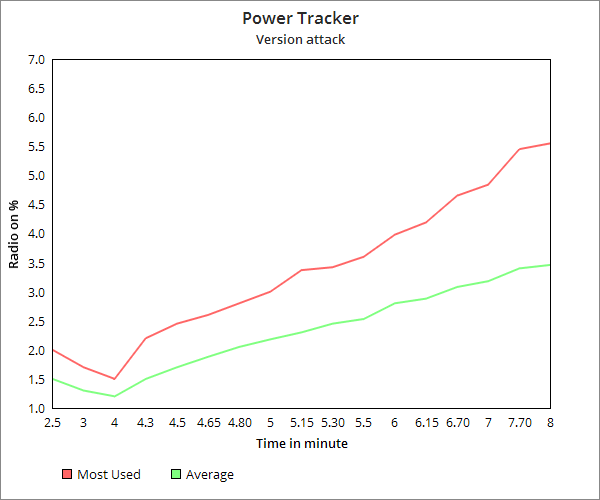
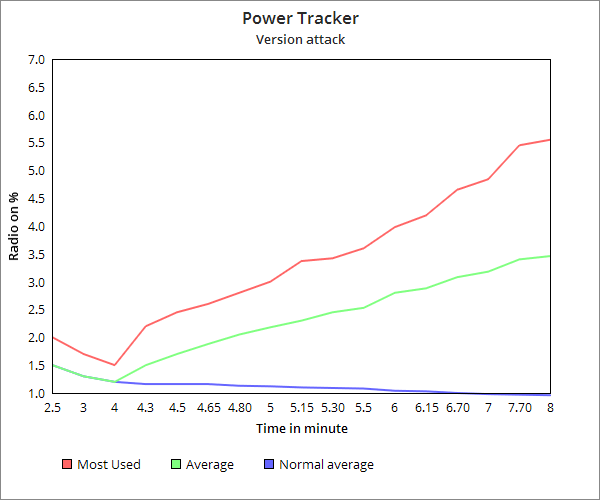
report + implem

diff --git a/LINGI2146_Report_P1.tex b/LINGI2146_Report_P1.tex
@@ -3,6 +3,38 @@
 \usepackage{fullpage}
 \usepackage{graphicx}
 \usepackage{booktabs}
+\usepackage{color}
+\usepackage{fancyhdr}
+\usepackage{color}
+\usepackage{colortbl}
+\usepackage{amsmath,amssymb}
+\usepackage{multido}
+\usepackage{caption}
+\usepackage{listings}
+
+\lstnewenvironment{myc}
+{\lstset{language=c}
+\lstset{basicstyle=\footnotesize\ttfamily}
+\lstset{keywordstyle=\color[rgb]{0,0,1}\bfseries}
+\lstset{identifierstyle=\color{black}}
+\lstset{commentstyle=\color[rgb]{0,0.4,0}}
+\lstset{stringstyle=\color[rgb]{0.7,0,0}}
+\lstset{showstringspaces=false}
+\lstset{showtabs=false}
+\lstset{tabsize=3}
+\lstset{extendedchars=true}
+\lstset{breaklines=true}
+\lstset{postbreak={}}
+\lstset{breakautoindent=true}
+\lstset{breakindent=0pt}
+\lstset{xleftmargin=0.1cm}
+\lstset{xrightmargin=0cm}
+\lstset{frame=tb,rulecolor=\color[gray]{.4}}
+\lstset{captionpos=b}
+\lstset{aboveskip=0.5cm,belowskip=0.5cm}
+\lstset{numbers=left}
+\lstset{columns=fixed}}
+  {}
 \title{LINGI2146 - Project - Attacks against RPL}
 \author{Nicolas Houtain \& Nicolas Gorby Kabasele \& Arthur Paquot}
 \renewcommand{\thesection}{\arabic{section}}
@@ -10,12 +42,21 @@
 \begin{document}
 \maketitle
 \section{Introduction}
-We choose as our subject for this project the attacks against the RPL protocol. Nowadays, the internet of things gains more and more interest and RPL could be one of the protocols used for those low power and lossy networks. We were interested to see if this protocol is robust enough to avoid an attack to corrupt the network. In order to do so, we selected a few known attacks for those kind of networks and we tried to implement them in Contiki and to simulate the behavior of the network with Cooja. The different attacks that we present are a sinkhole attack, a select-forwarding attack, a version number attack and a DAG inconsistency attack. For each attack we briefly present the attack, how we implemented it and how the network and the RPL protocol react to those attacks. For all the attacks, the malicious behavior can be activated by pressing the button of the mote.
+We choose as our subject for this project the attacks against the RPL protocol. Nowadays, the internet of things gains more and more interest and RPL could be one of the protocols used for those low power and lossy networks. We were interested to see if this protocol is robust enough to avoid an attack corrupting the network. In order to do so, we selected a few known attacks for those kind of networks and we tried to implement them in Contiki and simulate the behavior of the network with Cooja. The different attacks that we present are a sinkhole attack, a select-forwarding attack, a version number attack and a DAG inconsistency attack. For each attack we briefly present the attack, how we implemented it and how the network and the RPL protocol react to those attacks with some measurement and countermeasure if any. For all the attacks, the malicious behavior can be activated by pressing the button of the mote. By pressing the button once, the node launches the sinkhole attack, twice the version number attack, three times the select forwarding attack and four times the DAG inconsistency attack. We only changed the files contained in the folder contiki/core/net/rpl.
 
 \section{Sinkhole attack}
 A sinkhole attack is when a node announces an artificial beneficial routing path. The other nodes of the network will therefore chose the malicious node as their parent and most of the traffic will pass by the malicious node.
 \subsection*{Implementation}
 We choose to implement the sinkhole attack by making the malicious node announcing a rank higher that its real one. The malicious node will advertise the rank 256 which the rank of the root. This is done in the \textit{rpl-icmp6.c} in the method \textit{dio\_output}.
+
+
+\begin{myc}
+if(malicious){
+	printf("The sinkhole attack is launched\n");
+	dag->rank=(unsigned int) 256;
+}
+\end{myc}
+
 \subsection*{Consequences on the network}
 All the down neighbors of the malicious node chose it as their parent since they think it's the root of the graph. A lot of the traffic will therefore pass by the malicious node. This attack is powerful when coupled with other attacks. Indeed, since an important part of the traffic will pass by the malicious node, it has the opportunity to corrupt, drop or do any other malicious action on the packets.
 \subsection*{Countermeasure}
@@ -40,6 +81,13 @@ All the down neighbors of the malicious node chose it as their parent since they
 A select forwarding attack is an attack where a malicious node decides arbitrarily which packet it will forward and which packet it will drop. This kind of attack is really hard to detect for a protocol such as RPL since the RPL packets are still distributed in the network, but all the IPV6 packet for example, are dropped. The node that doesn't receive the packet can not notice there is a bad behavior and the nodes that sent it can think the packets were lost. 
 \subsection*{Implementation}
 We choose to drop all the IPV6 packets that the malicious node received (packet that are not RPL packet). In order to do so, every time the malicious node receives a ping packet, it will consider that its header is wrong and will drop the packet. This is done in the \textit{rpl-ext-header.c} file in the method \textit{rpl\_verify\_header}, where the node, if malicious, returns "-1" when verifying the header.  
+\begin{myc}
+if(malicious==3){
+	printf("Malicious node drops the packet\n");
+	return -1;
+}	
+\end{myc}
+
 \subsection*{Consequences on the network}
 When the malicious node is activated, all the ping packets that have to reach a node to which the path pass by the malicious node are dropped. This kind of attack is really powerful if coupled with a sinkhole attack. In such case, most of the ping packets pass by the malicious node and are discarded. 
 \subsection*{Countermeasures}
@@ -54,6 +102,15 @@ In the RPL protocol, each DIO message has a version number that is incremented b
 \subsection*{Implementation}
 In order to perform that attack, the malicious node, every time it sends a DIO message, will increase the version number by one. This is done in the \textit{rpl-icmp6.c} file in the method \textit{dis\_output}.
 
+\begin{myc}
+if (malicious==2){
+	printf("Malicious node changes dag version for dio output. %d instead of %d \n.", dag->version+1,dag->version);
+	buffer[pos++] = dag->version+1;
+} else {
+	buffer[pos++] = dag->version;
+}
+\end{myc}
+
 \subsection*{Consequences on the network}
 This attack has several consequences on the behavior of the network. It can create loop in the network, leading to the lost of packets and all the successive and unnecessary rebuilding of the graph increase the traffic of packets in the network. This consume the availability of the links and the nodes that could be used for relevant traffic. This overhead can exhaust the resources of the node and lead to a congestion of the network. 
 %[PARLER DES TIMER]
@@ -63,6 +120,7 @@ Finally, the malicious node will become the most used node of the network, most 
 A countermeasure for this attack could be a way to authenticate the version number, i.e., that it was modified by the root and not by an other node. With hash or cryptography mechanism, the version number of the DIO packet could be verified by a node, if the hash value doesn't correspond to the one expected, the version number is not taken into account. Note that such a verification system will consume more resources on the root, that has to use some mechanism to produce the version number and on the different nodes that have to check the correctness of the version number.
 \subsection*{Measurement }
 The consequence of the attack can be watched using the MPS stack viewer provided by Cooja. We can observe that the stack of the nodes surrounding the malicious one is much bigger when the attack has been launched. Indeed, the reset of the different timers increases the traffic of messages between the different nodes.\\
+
 
 \begin{figure}
 \includegraphics[scale=0.4]{img/normal_stack2}
@@ -82,7 +140,7 @@ When the malicious node performs its attack, the stacks of the non-malicious nod
 
 Moreover, we put a printf in the code to show when an inconsistency is found, this leads to the reset of the timer, responsible of the increase of teh traffic. The root also receives an DAG message with an inconsistent version and it reset its timer too, to rebuild the DODAG.\\
 
-We also analyzed the evolution of the traffic and the consumption of resources by using the power tracker tool provided by Cooja. We first let the network without malicious node in order to reach a stable state, then after 4 minutes, we launched the attack. Immediately after the attack is performed, the neighboring node chose the malicious one as their parent and the power tracker show an increase of all the traffic in the network. Indeed, the average of radio transmission and the node with the highest rate increase over the time. The different results are presented in the table below. We can also see the evolution of the ration between the average traffic and the traffic of the most used node. One minute after the insertion of the first corrupted packet, the malicious node becomes the most used node and is responsible of most of the traffic since the other node chose it as parent. 
+We also analyzed the evolution of the traffic and the consumption of resources by using the power tracker tool provided by Cooja. We first let the network without malicious node in order to reach a stable state, then after 4 minutes, we launched the attack. Immediately after the attack is performed, the neighboring node chose the malicious one as their parent and the power tracker show an increase of all the traffic in the network. Indeed, the average of radio transmission and the node with the highest rate increase over the time. The different results are presented in the table below : in red, the traffic of the most used node with a malicious node in the network, in green the average traffic with a malicious node in the network and finally in blue, the average traffic with no malicious node in the network. We can also see the evolution of the ratio between the average traffic and the traffic of the most used node. One minute after the insertion of the first corrupted packet, the malicious node becomes the most used node and is responsible of most of the traffic since the other node chose it as parent. 
 
 
 % Simu avec les 14 noeuds : Apres 2min30, l'average est a 1,5 et le most used est à 2%, apres 3 min on est a 1,3 (average) et 1,7 (most used), après 4 min on est a 1,2 et 1,5. Apres 4 min le premier paquet corrupted est dans le réseau, 4min20
@@ -91,7 +149,7 @@ We also analyzed the evolution of the traffic and the consumption of resources b
 %	\centering
 %	\caption{Impact of  version number attack with Power tracker}
 %	\begin{tabular}{ccccc}
-%		\toprule
+%		\toprule"
 %		Network attacked&Average traffic & Most used node&Ratio &time\\
 %		\midrule
 %		No & 1.50 \% &2.00 \%&1.33&2:30\\
@@ -133,8 +191,15 @@ A DAG inconsistency is when the packet doesn't follow the direction that matches
 Note that the opposite attack is also possible, the malicious node doesn't set the flag where a loop is detected. This attack is more difficult to implement since we have to create loop in the network to verify if the attack works, we therefore chose to implement the first version.
 
 \subsection*{Implementation}
-The RPL protocol implemented in Contiki doesn't drop the packet when the rank error bit is set. However, it could be some situations where we would prefer to drop a pack that is inconsistent, we therefore change the behavior of the RPL protocol to make it drop a packet when the rank error bit is set. The malicious node set the flag for all the packet it receives. This is done in the \textit{ext-header.c} file in the method [NAME].
+The RPL protocol implemented in Contiki doesn't drop the packet when the rank error bit is set. However, it could be some situations where we would prefer to drop a packet that is inconsistent, we therefore changed the behavior of the RPL protocol to make it drop a packet when the rank error bit is set. The malicious node set the flag for all the packet it receives. This is done in the \textit{ext-header.c} file in the method [NAME].
 
+\begin{myc}
+if(malicious==4){
+	printf("Malicious node changes the flag of the packet \n");
+	UIP_EXT_HDR_OPT_RPL_BUF->flags |= RPL_HDR_OPT_RANK_ERR;
+}
+
+\end{myc}
 \subsection*{Consequences on the network}
 One of the immediate outcome of the attack is to reset the timer of the node that receives the packet. The node will therefore send DIO message more frequently, leading to an unnecessary used of the links and the battery. The different neighbor of the node are also victim of the attack since they have to process a useless traffic. Moreover, the node will drop the different packet it receives with the flag set.
 
@@ -142,8 +207,18 @@ One of the immediate outcome of the attack is to reset the timer of the node tha
 
 One solution could be to limit the number of time a node can reset its timer during a lapse of time. 
 \subsection*{Measurement}
-The DAG inconsistency results in the lost of packets and the reset of the timers. The traffic is therefore increased.
+The DAG inconsistency results in the lost of packets and the reset of the timers. The traffic is therefore increased. The printf in the code shows when the loop or the inconsistency is discovered by a node, resetting its timer and dropping the packet. 
 
-%\section{A NODE THAT JOINS AND LEAVE THE NETWORK ALL THE TIME}
+
+\section{Other implementation}
+In \textit{rpl.c}, when the button is pressed the method is called to change the value of \textit{malicious} which represent the number of the attack.
+
+\begin{myc}
+int malicious=0;
+void
+set_malicious(void){
+	malicious = (malicious+1)%5;
+}
+\end{myc}
 
 \end{document}
